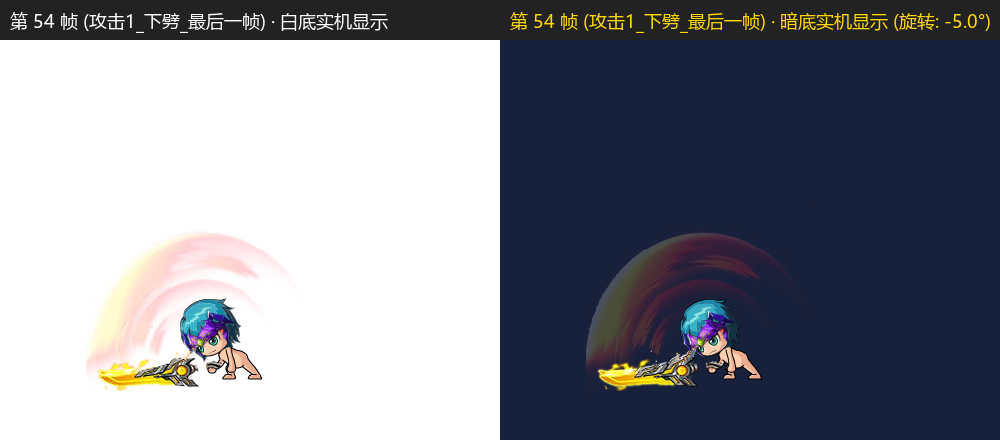
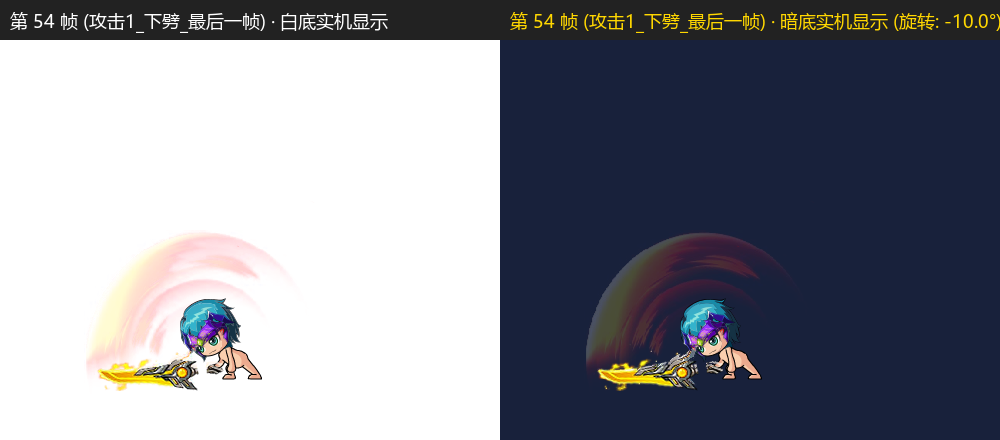
feat: sync user strike frame tuning (f54, f73, f78) to main and add auto-sync cache check

Changed region(s): [[0.589, 0.7977, 0.744, 0.8864], [0.093, 0.7977, 0.248, 0.8864], [0.93, 0.0295, 1.0, 0.0886]]

diff --git a/tools/export_strike_frames.py b/tools/export_strike_frames.py
@@ -43,7 +43,7 @@ sys.path.insert(0, str(ROOT / "tools"))
 FRAME_TUNING = {
     # ---------------- 攻击 1：下劈动作 ----------------
     50: {"rot": -11.0, "dx": 0.0, "dy": 0.0},  # 攻击1 下劈击中帧 (初始角度偏约 -11度)
-    54: {"rot": -5.0,  "dx": 0.0, "dy": 0.0},  # 攻击1 下劈收招最后一帧 (初始角度偏约 -5度)
+    54: {"rot": -10.0,  "dx": 0.0, "dy": 0.0},  # 攻击1 下劈收招最后一帧 (初始角度偏约 -5度)
 
     # ---------------- 攻击 2：下劈 -> 上挑动作 ----------------
     55: {"rot": 7.0,   "pivot": (593.0, 1137.0), "dx": 0.0, "dy": 0.0},  # 攻击2 下劈起手帧
@@ -56,8 +56,8 @@ FRAME_TUNING = {
 
     # ---------------- 攻击 4：重劈动作 ----------------
     71: {"rot": -8.0,  "pivot": (586.0, 1096.0), "dx": 0.0, "dy": 0.0},  # 攻击4 重劈高举蓄力
-    73: {"rot": -19.0, "dx": 0.0, "dy": 0.0},  # 攻击4 重劈击中地表帧 (初始角度偏约 -19度)
-    78: {"rot": -4.0,  "dx": 0.0, "dy": 0.0},  # 攻击4 重劈收招最后一帧 (初始角度偏约 -4度)
+    73: {"rot": -11.0, "dx": 0.0, "dy": 0.0},  # 攻击4 重劈击中地表帧 (初始角度偏约 -19度)
+    78: {"rot": -8.0,  "dx": 0.0, "dy": 0.0},  # 攻击4 重劈收招最后一帧 (初始角度偏约 -4度)
 }
 
 # ------------------------------------------------------------------------------

diff --git a/main.py b/main.py
@@ -169,6 +169,16 @@ class OriginalCharacterVisual:
         self.weapon_offset = (offset_x, offset_y)
         sword_layer_dir = self.SWORD_LAYER_DIRS.get(weapon_id)
         sword_frames = [None] * sprite["frame_count"]
+        if sword_layer_dir:
+            # 自动比对 export_strike_frames.py 修改时间，若参数更新则自动静默重构缓存
+            cfg_file = ROOT / "tools" / "export_strike_frames.py"
+            sample_layer = sword_layer_dir / "50.png"
+            if cfg_file.is_file() and (not sample_layer.is_file() or cfg_file.stat().st_mtime > sample_layer.stat().st_mtime):
+                try:
+                    from export_strike_frames import rebuild_gold9_sword_layers
+                    rebuild_gold9_sword_layers(sword_layer_dir)
+                except Exception:
+                    pass
         if sword_layer_dir and sword_layer_dir.is_dir():
             for frame_number in range(47, min(79, sprite["frame_count"] + 1)):
                 layer_path = sword_layer_dir / f"{frame_number}.png"
